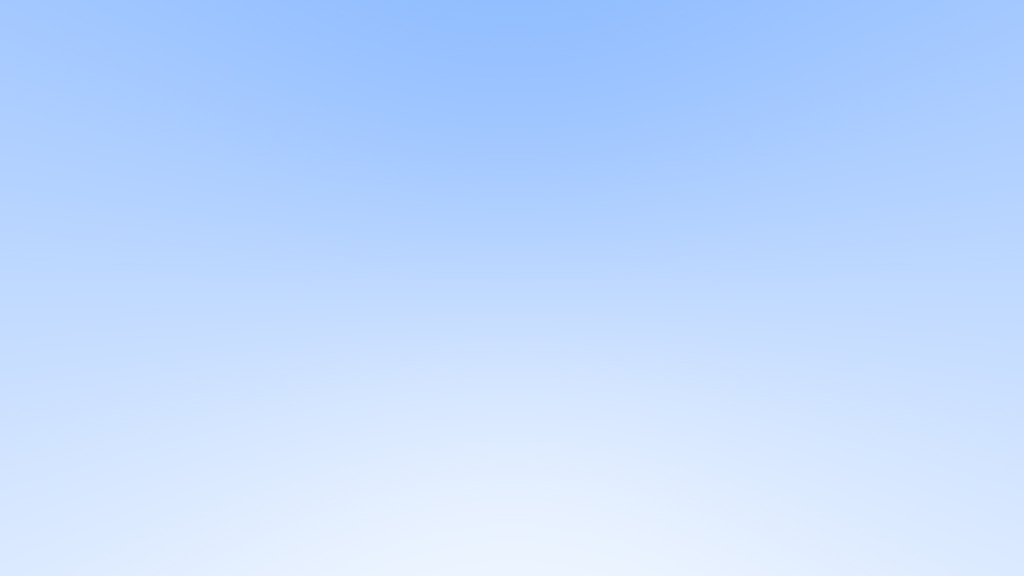
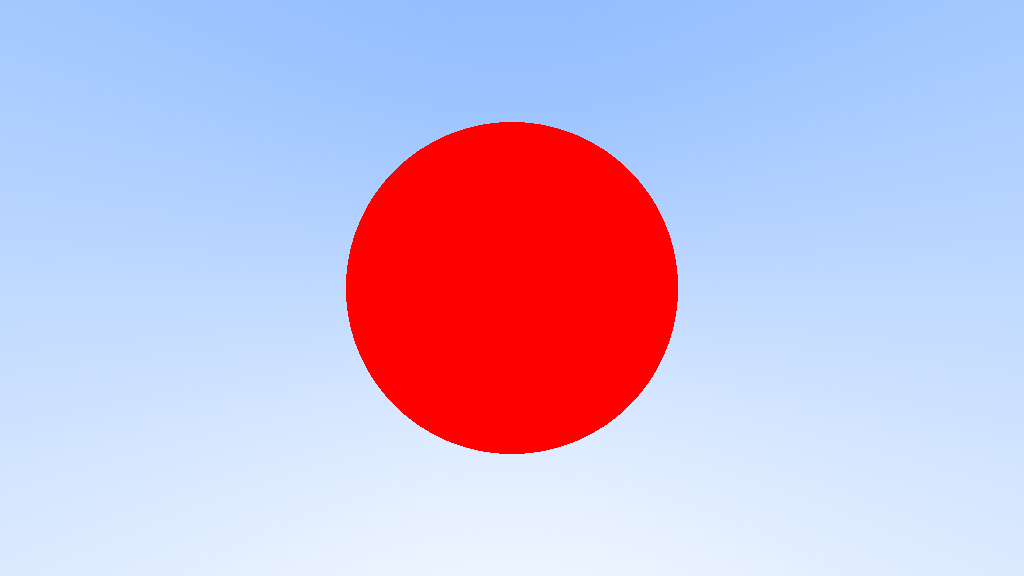
Drawing a circle with ray casting

Changed region(s): [[0.3125, 0.1875, 0.6875, 0.8125]]

diff --git a/src/main.cpp b/src/main.cpp
@@ -10,8 +10,19 @@
 #include <vec3.h>
 #include <ray.h>
 
+bool hit_sphere(const Vec3 &aSphereCenter, float radius, const Ray &aRay) {
+    Vec3 oc = aRay.origin() - aSphereCenter;
+    float a = aRay.direction().len_squared();
+    float b = 2.0f * oc.dot(aRay.direction());
+    float c = oc.len_squared() - radius * radius;
+    float discriminant = b * b - 4 * a * c;
+    return discriminant > 0;
+}
 
 Vec3 ray_color(const Ray &aRay) {
+    if (hit_sphere(Vec3(0, 0, -1), 0.5, aRay)) {
+        return {1, 0, 0};
+    }
     float normalizedDirectionY = aRay.direction().normalize().y();
     float t = 0.5f * (normalizedDirectionY + 1);
     return (1 - t) * Vec3(1.0, 1.0, 1.0) + t * Vec3(0.5, 0.7, 1.0);
